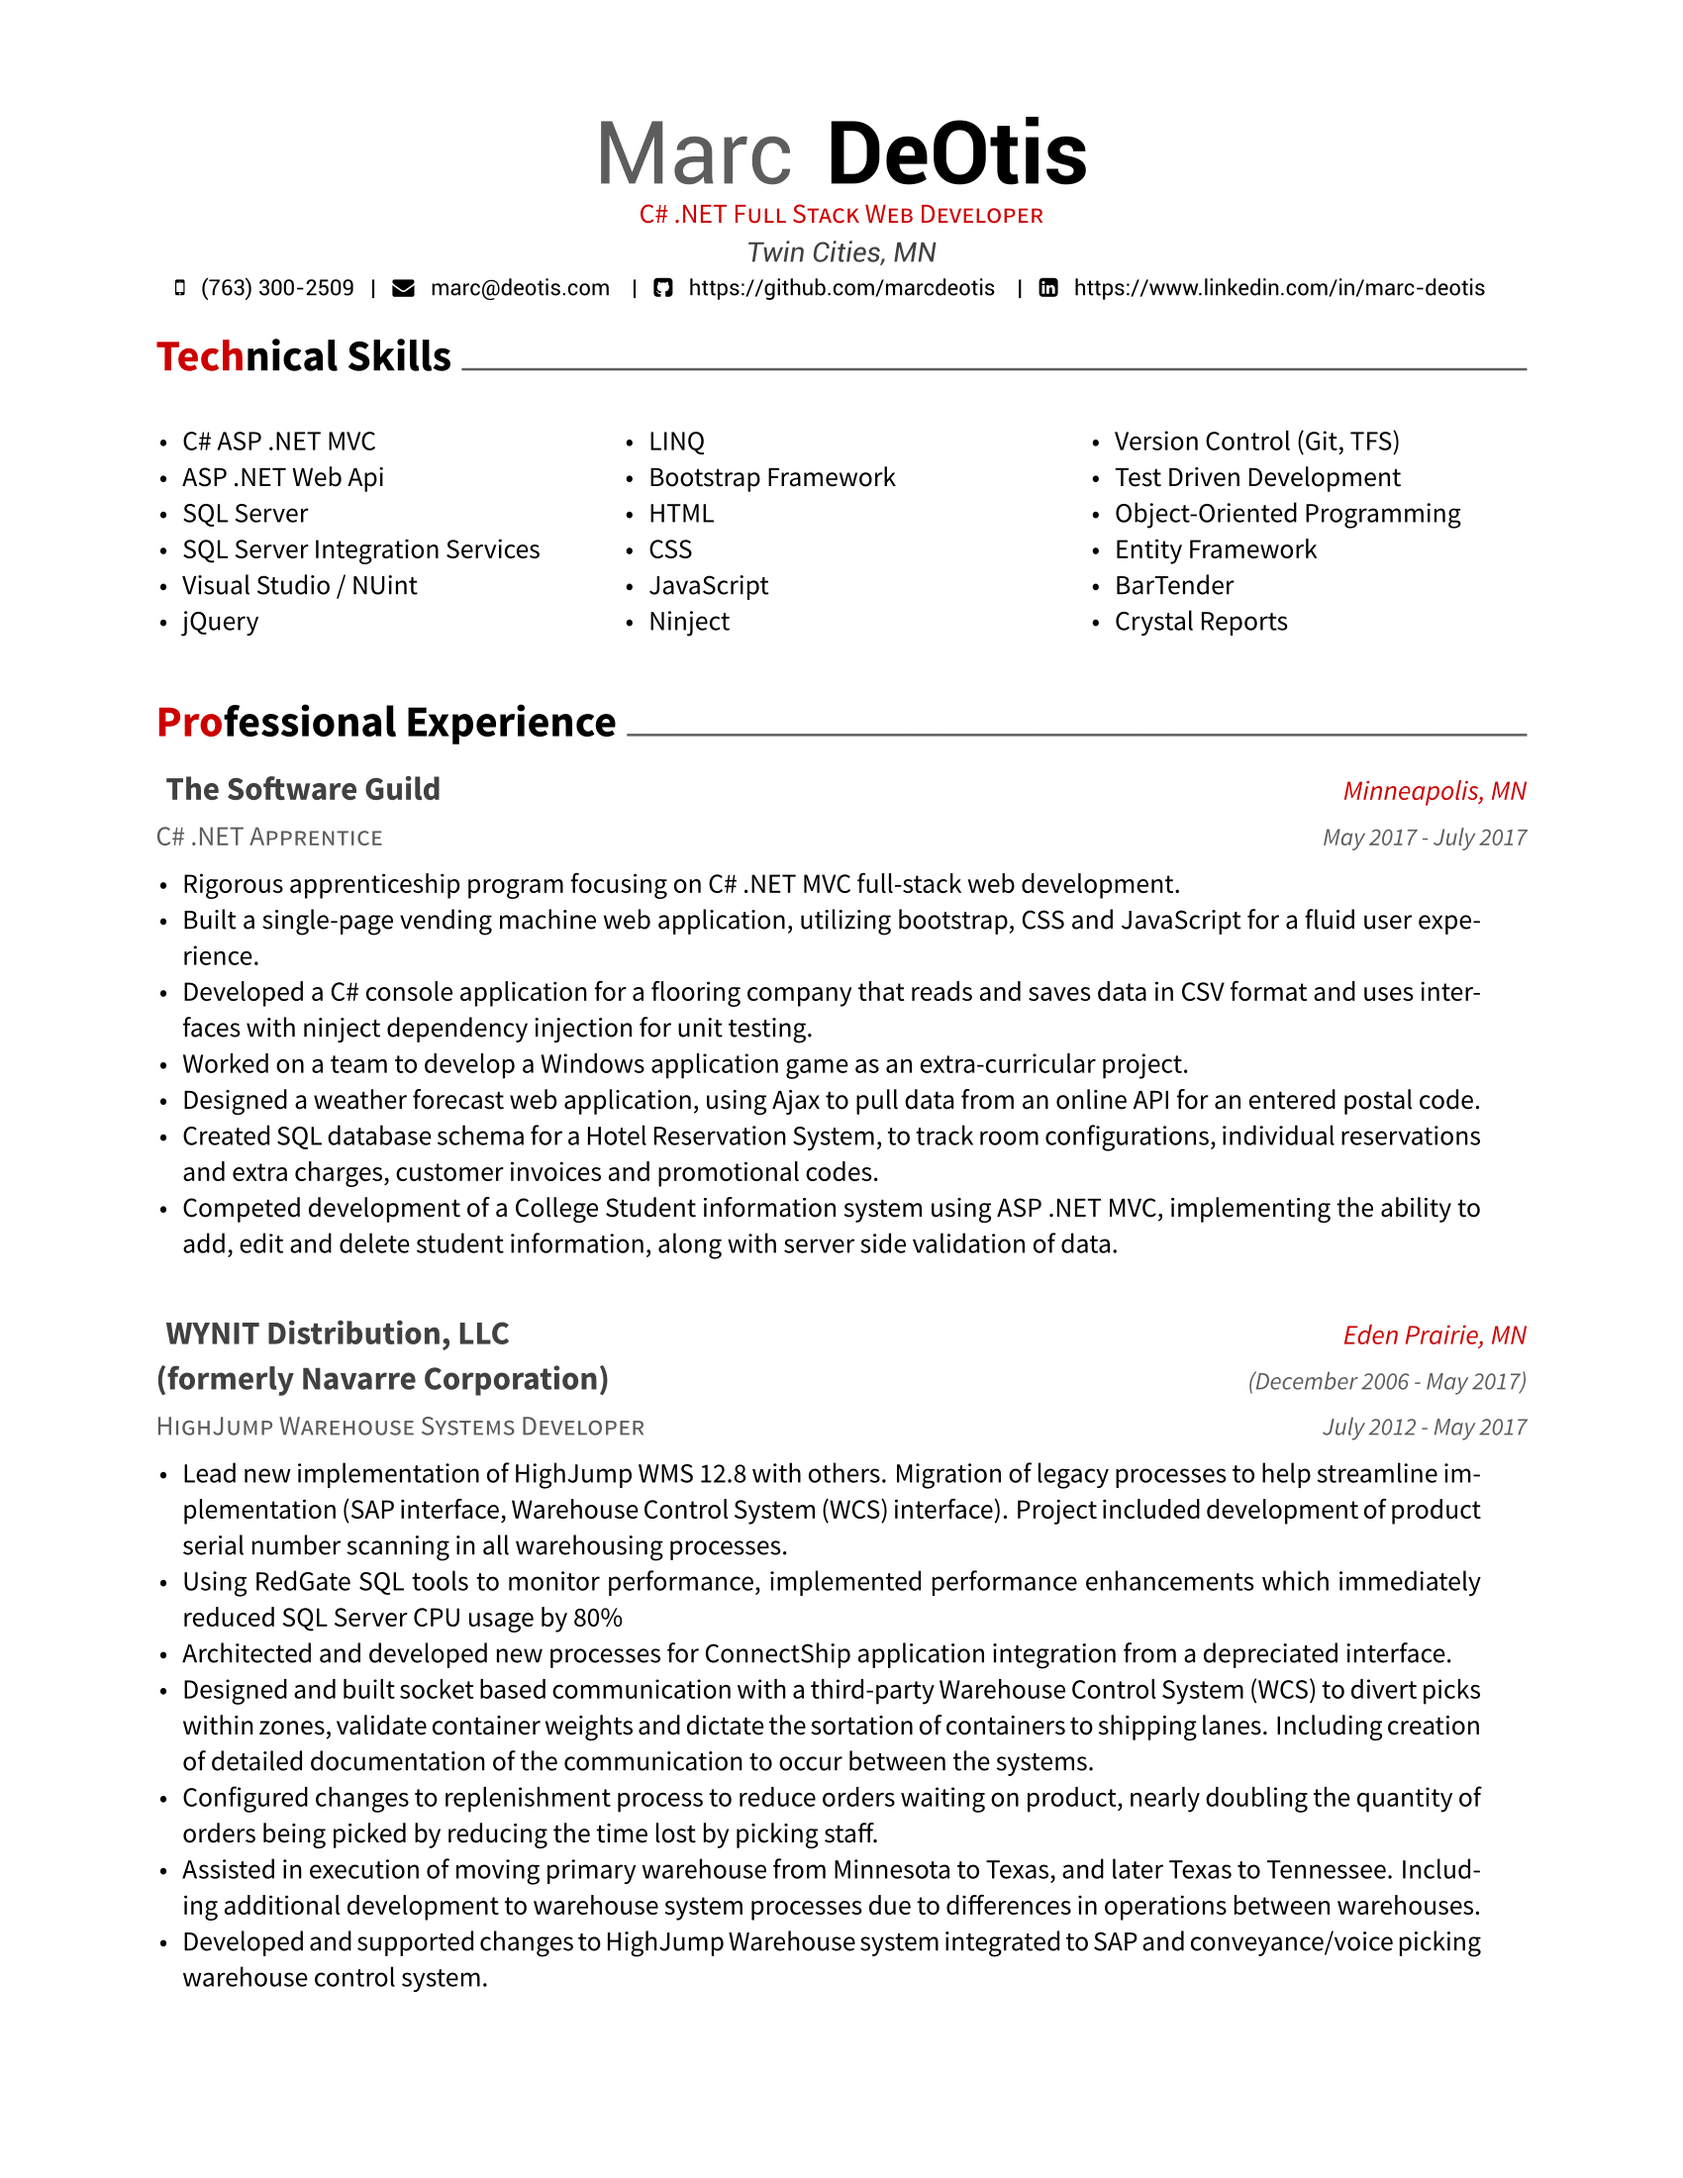
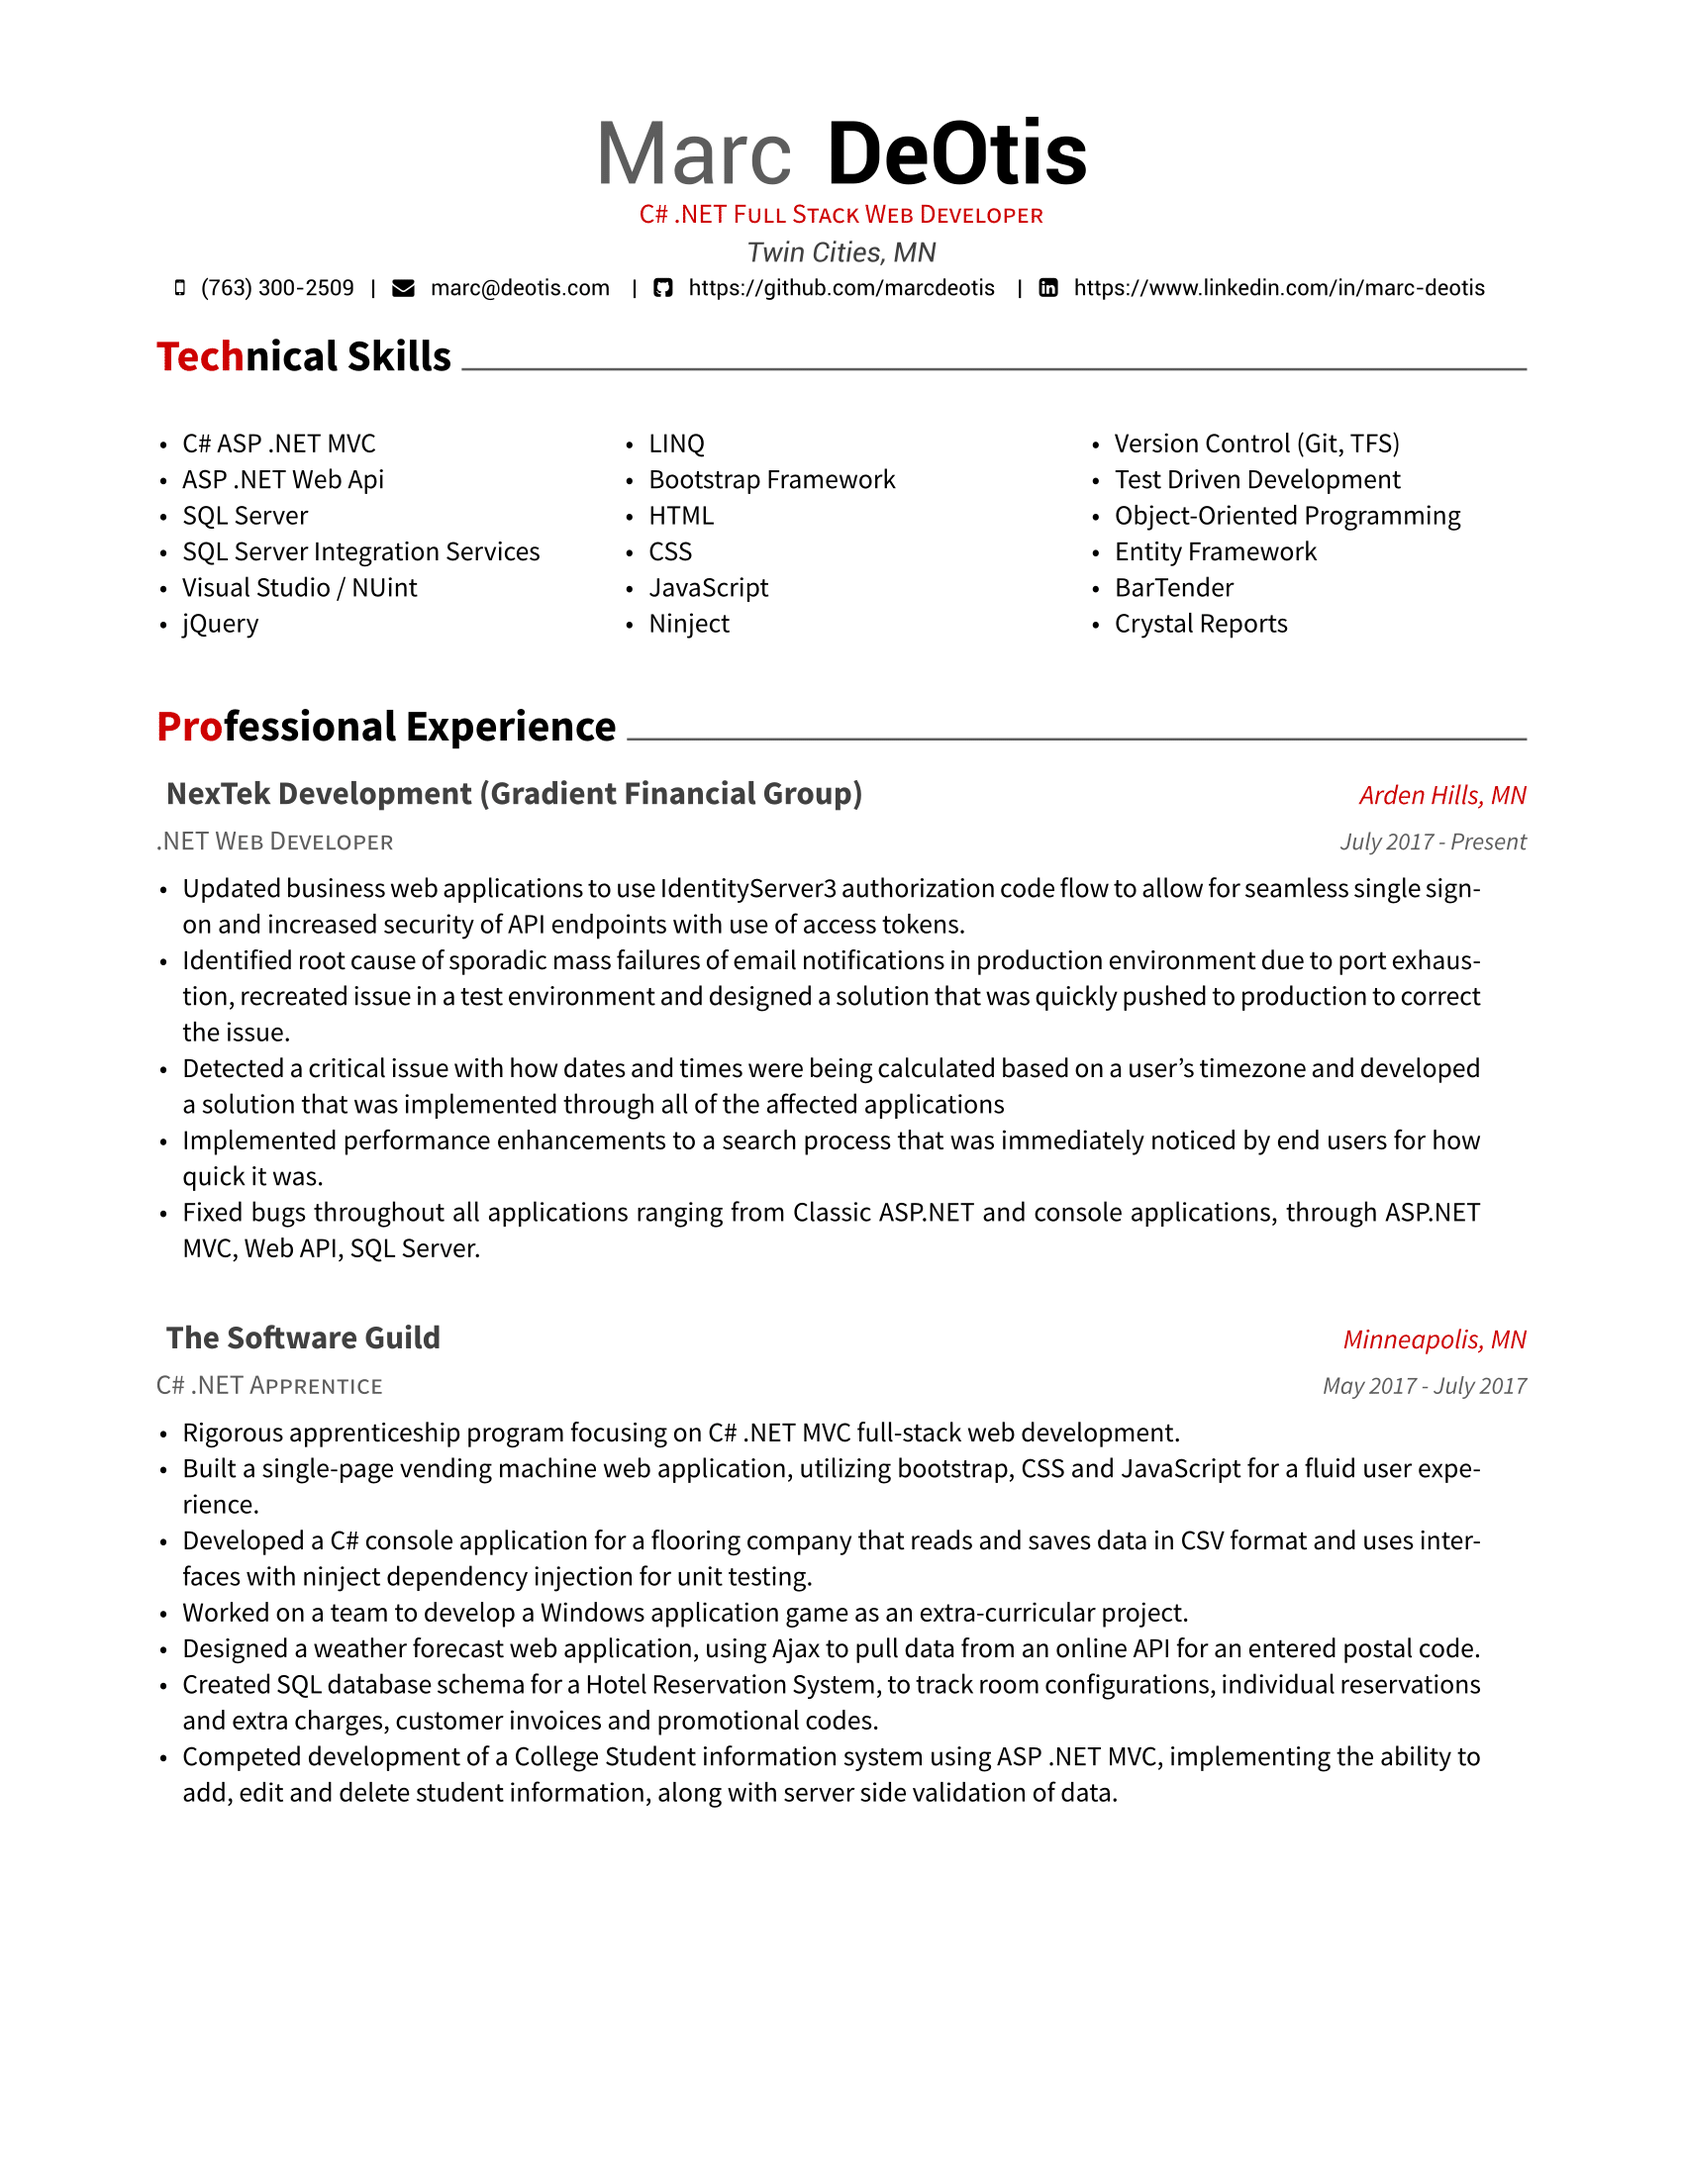
Updated to add in NexTek Development experience

diff --git a/resume/experience.tex b/resume/experience.tex
@@ -1,6 +1,21 @@
 \cvsection{Pro}{fessional Experience}
 \begin{cventries}
   \cventry
+    {.NET Web Developer}
+    {NexTek Development (Gradient Financial Group)}
+    {Arden Hills, MN}
+    {July 2017 - Present}
+    {
+      \begin{cvitems}
+       \item {Updated business web applications to use IdentityServer3 authorization code flow to allow for seamless single sign-on and increased security of API endpoints with use of access tokens.}
+       \item {Identified root cause of sporadic mass failures of email notifications in production environment due to port exhaustion, recreated issue in a test environment and designed a solution that was quickly pushed to production to correct the issue.}
+       \item {Detected a critical issue with how dates and times were being calculated based on a user's timezone and developed a solution that was implemented through all of the affected applications}
+       \item {Implemented performance enhancements to a search process that was immediately noticed by end users for how quick it was.}
+       \item {Fixed bugs throughout all applications ranging from Classic ASP.NET and console applications, through ASP.NET MVC, Web API, SQL Server.}
+      \end{cvitems}
+    }{}{}
+
+  \cventry
     {C\# .NET Apprentice}
     {The Software Guild}
     {Minneapolis, MN}
